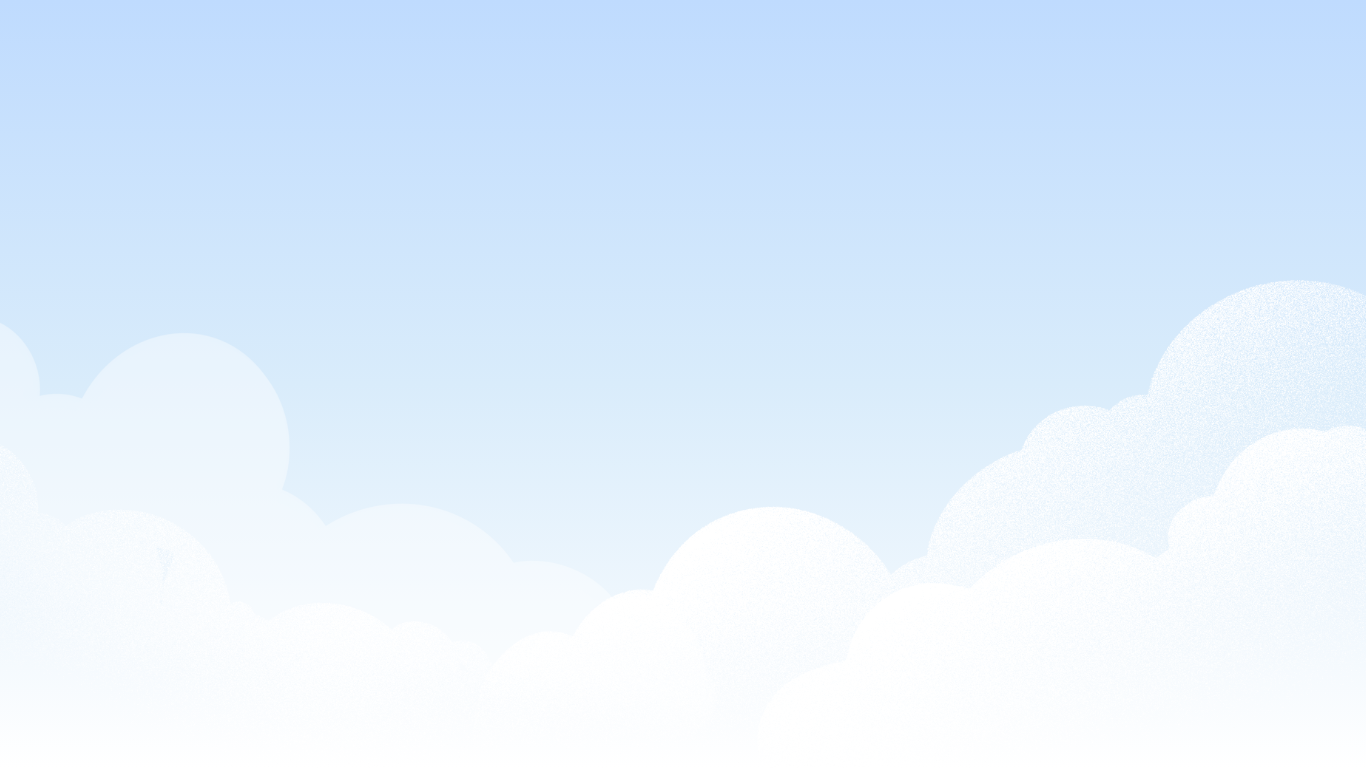
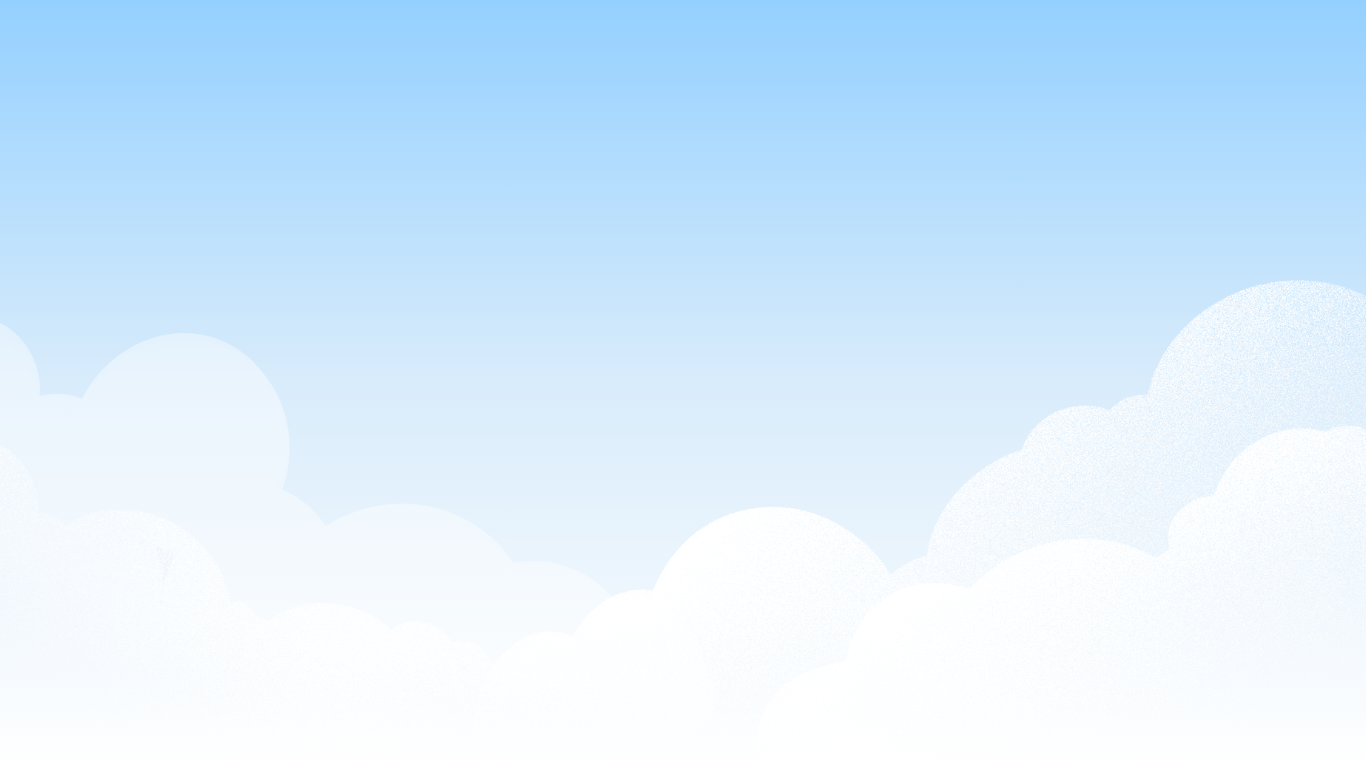
anatomy fix

Changed region(s): [[0.0, 0.0, 1.0, 0.2188]]

diff --git a/albatross-proto/intro.js b/albatross-proto/intro.js
@@ -255,14 +255,18 @@ document.addEventListener('DOMContentLoaded', () => {
                     .style('filter', 'drop-shadow(0 3px 6px rgba(15,23,42,0.55))')
                     .style('pointer-events', 'none');  // IMPORTANT: only hit circle handles events
 
-                // Hover behaviour on the *hit* area
-                hit.on('mouseenter', function(e) {
+                // Click behaviour on the *hit* area
+                hit.on('click', function(e) {
                         e.stopPropagation();
-                        showTooltip(info, regionKey);
-                    })
-                    .on('mouseleave', function(e) {
-                        e.stopPropagation();
-                        hideTooltip(regionKey);
+                        // Toggle tooltip: if it's already visible, hide it; otherwise show it
+                        const currentDisplay = tooltips[regionKey].style('display');
+                        if (currentDisplay === 'block') {
+                            hideTooltip(regionKey);
+                        } else {
+                            // Hide all other tooltips first
+                            hideTooltip();
+                            showTooltip(info, regionKey);
+                        }
                     });
             });
         }
@@ -271,10 +275,9 @@ document.addEventListener('DOMContentLoaded', () => {
             const tooltip = tooltips[regionKey];
             if (!tooltip) return;
 
-            // Build HTML from content object with close button
+            // Build HTML from content object
             let html = '<div class="intro-popup-content">';
-            html += `<button class="popup-close-btn" onclick="document.querySelector('.intro-tooltip-${regionKey}').style.display='none'" style="position: absolute; top: 10px; right: 10px; background: transparent; border: none; font-size: 24px; cursor: pointer; color: #666; line-height: 1; padding: 5px 10px;">&times;</button>`;
-            html += `<h3>${content.title}</h3>`;
+            html += `<h3 style="margin-top: 0;">${content.title}</h3>`;
 
             // Add image if present
             if (content.image) {
@@ -293,7 +296,7 @@ document.addEventListener('DOMContentLoaded', () => {
                 .style('max-width', '90vw')
                 .style('background', 'white')
                 .style('color', 'black')
-                .style('padding', '30px')
+                .style('padding', '15px 20px')
                 .style('border-radius', '8px')
                 .style('box-shadow', '0 4px 20px rgba(0,0,0,0.3)')
                 .style('z-index', '10000')

diff --git a/albatross-proto/index.html b/albatross-proto/index.html
@@ -262,8 +262,8 @@
     background: linear-gradient(
       to bottom,
       #ffffff 0%,
-      #d9ecfb 12%,
-      #d9ecfb 88%,
+      #d9ecfb 30%,
+      #d9ecfb 70%,
       #ffffff 100%
     );
     display: flex;
